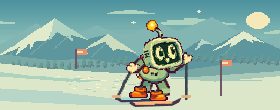
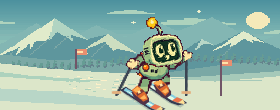
Turn ski boots and runners together through slalom lane changes

Changed region(s): [[0.4, 0.1364, 0.6857, 1.0]]

diff --git a/examples/06_shadow_puppet/web/motion-stage.js b/examples/06_shadow_puppet/web/motion-stage.js
@@ -121,12 +121,14 @@
     line(c,shoulder,elbow,4,'#83ad79');
     forearm(c,elbow,hand);
   }
-  function leg(c, hip, knee, foot, near) {
-    const ankle={x:foot.x,y:foot.y-5};
+  function shin(c, hip, knee, ankle, near) {
     line(c,hip,knee,8,'#42142b'); line(c,knee,ankle,7,'#42142b');
     line(c,hip,knee,5,near?'#83ad79':'#609575');
     line(c,knee,ankle,4,near?'#609575':'#395c51');
     rect(c,knee.x-3,knee.y-2,7,4,near?'#b5ce8b':'#83ad79');
+  }
+  function leg(c, hip, knee, foot, near) {
+    shin(c,hip,knee,{x:foot.x,y:foot.y-5},near);
     c.save();
     c.translate(round(foot.x),round(foot.y));
     if(!near) c.scale(-1,1);
@@ -169,12 +171,46 @@
     c.drawImage(wingSprite,-1,-16);
     c.restore();
   }
+  function skiStance(c, hip, bank) {
+    // Both skis pivot about their bindings in the plane of the slope.
+    // Positive forward points downhill, toward the viewer when centered.
+    const yaw = bank * Math.PI / 3, sin = Math.sin(yaw), cos = Math.cos(yaw);
+    const feet = [-1,1].map(side => {
+      const x = side * (8 + 2*cos), y = -side * sin * 4;
+      const project = ([across,forward,height=0]) => [
+        x + across*cos + forward*sin, y + (forward*cos - across*sin)*.65 - height
+      ];
+      return {side,x,y,face:(points,color) => path(c,points.map(project),color)};
+    }).sort((a,b) => a.y-b.y);
+
+    for (const {face} of feet) {
+      // Raised coral tips and a blue running edge make the fore/aft direction legible.
+      face([[-2,-15,-1],[2,-15,-1],[3,14,-1],[2,26,0],[-2,26,0],[-3,14,-1]],'#45667247');
+      face([[-3,-18,1],[3,-18,1],[4,17,1],[4,25,2],[2,30,4],[-2,30,4],[-4,25,2],[-4,17,1]],'#373a51');
+      face([[-2,-16,2],[2,-16,2],[3,17,2],[3,24,3],[-3,24,3],[-3,17,2]],'#84cee1');
+      face([[-2,-12,2],[0,-12,2],[1,17,2],[-2,17,2]],'#e5f9e4');
+      face([[-3,17,2],[3,17,2],[3,24,3],[-3,24,3]],'#ed7147');
+      face([[-3,24,3],[3,24,3],[1,29,4],[-1,29,4]],'#ffdf94');
+    }
+    for (const {side,x,y,face} of feet) {
+      const inside = side*bank;
+      const knee = {x:x + sin*6, y:y-10-inside*2};
+      shin(c,{x:hip.x+side*5,y:hip.y},knee,{x,y:y-5},inside<=0);
+      // A high cuff, a low toe box and the sole all share the runner's local axes.
+      face([[-4,-4,6],[4,-4,6],[5,4,5],[4,9,3],[3,10,1],[-3,10,1],[-5,7,2],[-5,0,4]],'#513348');
+      face([[-4,-4,8],[4,-4,8],[4,2,7],[4,7,5],[2,9,3],[-3,9,3],[-4,6,5],[-4,0,6]],'#dd692d');
+      face([[-3,-4,8],[3,-4,8],[3,1,8],[-3,1,8]],'#ffb154');
+      face([[-4,1,7],[4,1,7],[4,3,6],[-4,3,6]],'#803d39');
+      face([[-2,1,8],[1,1,8],[1,3,7],[-2,3,7]],'#ffe6a3');
+      face([[-3,5,5],[3,5,5],[2,8,4],[-2,8,4]],'#ffb65d');
+    }
+  }
   function sportAvatar(c,pose,at,action,visual,time,scale) {
     const flight=action==='flap', bank=clamp(number(visual.avatar_dx)/58,-1,1);
     const arms=[limbs(pose,0,0),limbs(pose,1,0)];
     const angles=arms.map((a,i)=>clamp(Math.atan2(a.hand.y-a.shoulder.y,(i?1:-1)*(a.hand.x-a.shoulder.x)),-1.15,1.15));
     const bob=flight ? -3*Math.cos((angles[0]+angles[1])*.5+1.6) : 0;
-    const hip={x:flight?0:bank*5,y:flight?-23+bob:-18};
+    const hip={x:flight?0:bank*5,y:flight?-23+bob:-19+2*Math.abs(bank)};
     const neck={x:hip.x+(flight?0:bank*6),y:hip.y-15};
     c.save(); c.translate(round(at.x),round(at.y)); c.scale(scale*1.32,scale*1.32);
     if (flight) {
@@ -182,14 +218,7 @@
       leg(c,{x:-4,y:hip.y},{x:-10,y:-15+bob},{x:-15,y:-10+bob},false);
       leg(c,{x:5,y:hip.y},{x:9,y:-13+bob},{x:7,y:-3+bob},true);
     } else {
-      // Boots sit on separate runners. The hips move over the inside edge during a turn.
-      for (const [i,y] of [[0,-2],[1,2]]) {
-        const x=i?5:-7;
-        path(c,[[x-21,y-1],[x-17,y+1],[x+14,y],[x+23,y-4],[x+21,y],[x+15,y+3],[x-17,y+4],[x-22,y+1]],'#47354a');
-        line(c,{x:x-16,y:y+1},{x:x+14,y},2,i?'#ffb675':'#98dacf');
-      }
-      leg(c,{x:hip.x-4,y:hip.y},{x:-8+bank*6,y:-10},{x:-9,y:-2},false);
-      leg(c,{x:hip.x+5,y:hip.y},{x:9+bank*6,y:-8},{x:8,y:1},true);
+      skiStance(c,hip,bank);
     }
     const tail=round(Math.sin(time*6)*1.5);
     const scarf=flight||bank>=0?-1:1;
@@ -454,7 +483,7 @@
       venueLights(c,action,progress,visual);
     }
     const shadowWidth=clamp(52-(FLOOR-at.y)*.4,19,52);
-    if(action!=='flap'){
+    if(action!=='flap' && action!=='lean'){
       rect(c,at.x-shadowWidth/2,FLOOR+1,shadowWidth,3,'#4c4759');
       rect(c,at.x-shadowWidth*.35,FLOOR+4,shadowWidth*.7,1,'#575362');
     }

diff --git a/examples/06_shadow_puppet/web/action-coach.js b/examples/06_shadow_puppet/web/action-coach.js
@@ -35,8 +35,8 @@
       ['向内挥', .55, pose([69,77,5,-132])]
     ],
     lean:[
-      ['向左倾', .95, pose([57,67,57,67], {lean:-1})], ['回到中间', .6, neutral],
-      ['向右倾', .95, pose([57,67,57,67], {lean:1})], ['回到中间', .6, neutral]
+      ['向左倾', .95, pose([57,67,57,67], {lean:-1})], ['身体回正', .6, neutral],
+      ['向右倾', .95, pose([57,67,57,67], {lean:1})], ['身体回正', .6, neutral]
     ],
     piano:[
       ['张开手指', .85, neutral], ['轻弯亮起的手指', .55, pose(calm, {press:1})], ['伸直松键', .65, neutral]
@@ -130,8 +130,19 @@
     window.MotionStage.paintBackdrop(c,id,W,125);
     box(c,0,0,W,125,id==='piano'?'#251b383e':'#28233920');
   }
+  function skiDemoX(f) {
+    if (f.obstacle || reduced?.matches) return 128 + 31*f.sample.lean;
+    // Carry the glide through the release. The skier turns the other way on the next lean.
+    const step = f.index - f.index%2;
+    const turn = demos.lean[step][1], release = demos.lean[step+1][1];
+    const elapsed = f.index===step ? turn*f.progress : turn+release*f.progress;
+    const t = Math.min(1,elapsed/(turn+.68*release));
+    const travel = t*t*(3-2*t);
+    return 128 + (step===0 ? 1 : -1)*31*(1-2*travel);
+  }
   // The guide feeds the same shoulder, elbow and wrist landmarks as a live player.
-  function demoAvatar(c, id, pose) {
+  function demoAvatar(c, id, f) {
+    const pose = f.sample;
     const points = [];
     points[0] = [.5 + pose.yaw * .04, .34 + .045 * pose.pitch];
     for (let side = 0; side < 2; side++) {
@@ -151,11 +162,12 @@
       box(c,108,111,40,5,'#76738a');
       box(c,112,116,3,8,dim); box(c,141,116,3,8,dim);
     }
-    const px=128+pose.lean*(id==='lean'?31:7);
-    if(id!=='flap') box(c,px-20,115,40,3,'#29233770');
+    const px=id==='lean' ? skiDemoX(f) : 128+pose.lean*7;
+    if(id!=='flap' && id!=='lean') box(c,px-20,115,40,3,'#29233770');
+    const feetY=id==='lean' ? 102 : 116 - pose.lift * 11 - (id==='flap'?7:0);
     window.MotionStage.paintAvatar(c, {
       phase:'round', act_id:id, pose_points:points, pose_aspect:1, challenge:{visual}
-    },px,116 - pose.lift * 11 - (id==='flap'?7:0),.98);
+    },px,feetY,.98);
   }
   function prompts(c,id,f) {
     const {sample:p,index,progress} = f;
@@ -174,7 +186,7 @@
     } else if(id==='wave') {
       arrow(c,170,46,index===2?156:184,46,gold);
     } else if(id==='lean') {
-      const side=p.lean<0?-1:1;
+      const side=index<2?-1:1;
       const x=128+(f.obstacle==='tree'?-side:side)*91;
       if (f.obstacle==='tree') {
         box(c,x-2,85,4,12,'#ac9280');
@@ -264,7 +276,7 @@
         const raised=side=>p[11+side] && p[15+side] && p[15+side][1]<p[11+side][1];
         if (raised(0) && !raised(1)) {c.translate(W,0);c.scale(-1,1);}
       }
-      demoAvatar(c,id,f.sample);
+      demoAvatar(c,id,f);
       prompts(c,id,f);
       c.restore();
     }

diff --git a/examples/06_shadow_puppet/web/play.js b/examples/06_shadow_puppet/web/play.js
@@ -572,7 +572,7 @@
         if (s.hits>=(s.practice ? 1 : s.config.target)) return finish();
       }
       if (s.id === "alpine") {
-        s.laneDraw += (s.lane - s.laneDraw) * Math.min(1, dt * 15);
+        s.laneDraw += (s.lane - s.laneDraw) * (1-Math.exp(-dt*8));
         s.gateTime += dt;
         if (s.gateTime >= 2.85) {
           const hit = s.lane === s.gateLanes[s.gate];
@@ -775,7 +775,6 @@
     }
     box(ctx,"#ffe3a2",x-rw,y-ht,2*rw,2);
     const playerX=laneX(s.laneDraw,1);
-    box(ctx,"#8bb8bd",playerX-13,111,27,3);
     window.MotionStage.paintAvatar(ctx,extra.snapshot(s),playerX,107,.57);
     if(s.flash>.1 && s.good) star(ctx,playerX+18,72,"#fff4bc",2);
   }

diff --git a/examples/06_shadow_puppet/web/extra-games.js b/examples/06_shadow_puppet/web/extra-games.js
@@ -155,7 +155,8 @@
         target.arms = [69,77,-25,e.lastWave ? -52 : -128];
         break;
       case "lean":
-        target.lean = s.lane - 1;
+        // Steer into the glide, including the return from an outer lane.
+        target.lean = Math.max(-1,Math.min(1,(s.lane-s.laneDraw)*3));
         target.arms = [54,68,54,68];
         break;
       case "piano": {

diff --git a/examples/06_shadow_puppet/puppet.py b/examples/06_shadow_puppet/puppet.py
@@ -3,6 +3,7 @@
 
 from __future__ import annotations
 
+import math
 from functools import lru_cache
 from pathlib import Path
 
@@ -32,6 +33,47 @@ def _sprite_parts():
     if sheet is None or sheet.shape != (78, 156, 4):
         raise ValueError(f"Invalid Xiaodian sprite sheet: {path}")
     return sheet[:, :78], sheet[:, 78:]
+
+
+@lru_cache(maxsize=1)
+def _ski_torso():
+    path = Path(__file__).resolve().parent / "web" / "art" / "partner-parts.png"
+    sheet = cv2.imdecode(np.frombuffer(path.read_bytes(), np.uint8), cv2.IMREAD_UNCHANGED)
+    if sheet is None or sheet.shape != (48, 384, 4):
+        raise ValueError(f"Invalid partner sprite sheet: {path}")
+    return sheet[:, 96:144]
+
+
+def _draw_ski_stance(dst, cx, ground, bank):
+    """Project each ski and its boot around the same binding on the snow."""
+    sin, cos = math.sin(bank*math.pi/3), math.cos(bank*math.pi/3)
+    scale = .75
+    feet = [(side, side*(8+2*cos), -side*sin*4) for side in (-1, 1)]
+    feet.sort(key=lambda foot: foot[2])
+
+    def project(x, y, across, forward, height):
+        return (round(cx+scale*(x+across*cos+forward*sin)),
+                round(ground+scale*(y+(forward*cos-across*sin)*.65-height)))
+
+    def face(x, y, corners, tint):
+        points = np.array([project(x, y, *v) for v in corners], np.int32)
+        cv2.fillPoly(dst, [points], tint)
+
+    for _, x, y in feet:
+        face(x, y, [(-3,-18,1),(3,-18,1),(4,22,1),(2,30,4),(-2,30,4),(-4,22,1)], INK)
+        face(x, y, [(-2,-16,2),(2,-16,2),(3,21,2),(-3,21,2)], (225,206,132,255))
+        face(x, y, [(-3,17,2),(3,17,2),(3,24,3),(-3,24,3)], (71,113,237,255))
+        face(x, y, [(-3,24,3),(3,24,3),(1,29,4),(-1,29,4)], GOLD)
+    for side, x, y in feet:
+        hip = (round(cx+scale*(bank*5+side*5)), round(ground-scale*(19-2*abs(bank))))
+        knee = (round(cx+scale*(x+sin*6)), round(ground+scale*(y-10-side*bank*2)))
+        ankle = project(x, y, 0, 0, 5)
+        for start, end in [(hip,knee),(knee,ankle)]:
+            cv2.line(dst, start, end, INK, 5)
+            cv2.line(dst, start, end, SLEEVE, 3)
+        face(x, y, [(-4,-4,7),(4,-4,7),(5,5,5),(3,10,1),(-3,10,1),(-5,5,4)], INK)
+        face(x, y, [(-3,-4,8),(3,-4,8),(4,2,7),(3,8,4),(-3,8,4),(-4,2,7)], (45,105,221,255))
+        face(x, y, [(-3,1,7),(3,1,7),(3,3,6),(-3,3,6)], GOLD)
 
 
 def _blit(dst, src, x, y):
@@ -146,7 +188,12 @@ class PixelPuppet:
                 cv2.line(layer, _pt(shoulder), _pt(elbow), INK, 7)
                 cv2.line(layer, _pt(shoulder), _pt(elbow), SLEEVE, 4)
                 self._forearm(layer, elbow, wrist)
-        _blit(layer, self.body, *PAD)
+        if style == "ski":
+            bank = float(np.clip(lean, -1, 1))
+            _draw_ski_stance(scr.p, cx, cy + BODY_H, bank)
+            _blit(layer, _ski_torso(), PAD[0]+15, PAD[1]+26)
+        else:
+            _blit(layer, self.body, *PAD)
         nose = self.j.get("nose")
         yaw = float(nose[0]) if nose is not None else 0.
         rest_y = float(np.clip((nose[1]+.68)*9, -3, 5)) if nose is not None else 0.

diff --git a/examples/06_shadow_puppet/scenes.py b/examples/06_shadow_puppet/scenes.py
@@ -1077,13 +1077,6 @@ class Stage:
     # ---------- foreground ----------
 
     def draw_fg(self, scr: PixelScreen) -> None:
-        if self.scene == "ski":
-            fx = int(AV_X + self.avatar_dx)
-            foot = GROUND + int(self.avatar_dy)
-            for dx in (-12, 2):
-                scr.rect(fx + dx - 1, foot + 1, 14, 4, NIGHT)
-                scr.rect(fx + dx, foot + 2, 12, 2, CYAN)
-                scr.rect(fx + dx + 10, foot + 2, 2, 2, AZURE)
         if self.scene == "dino":
             # coach: bounce in chair (not arm-flap like eagle)
             hx, hy, hw, hh = 6, 40, 52, 58
